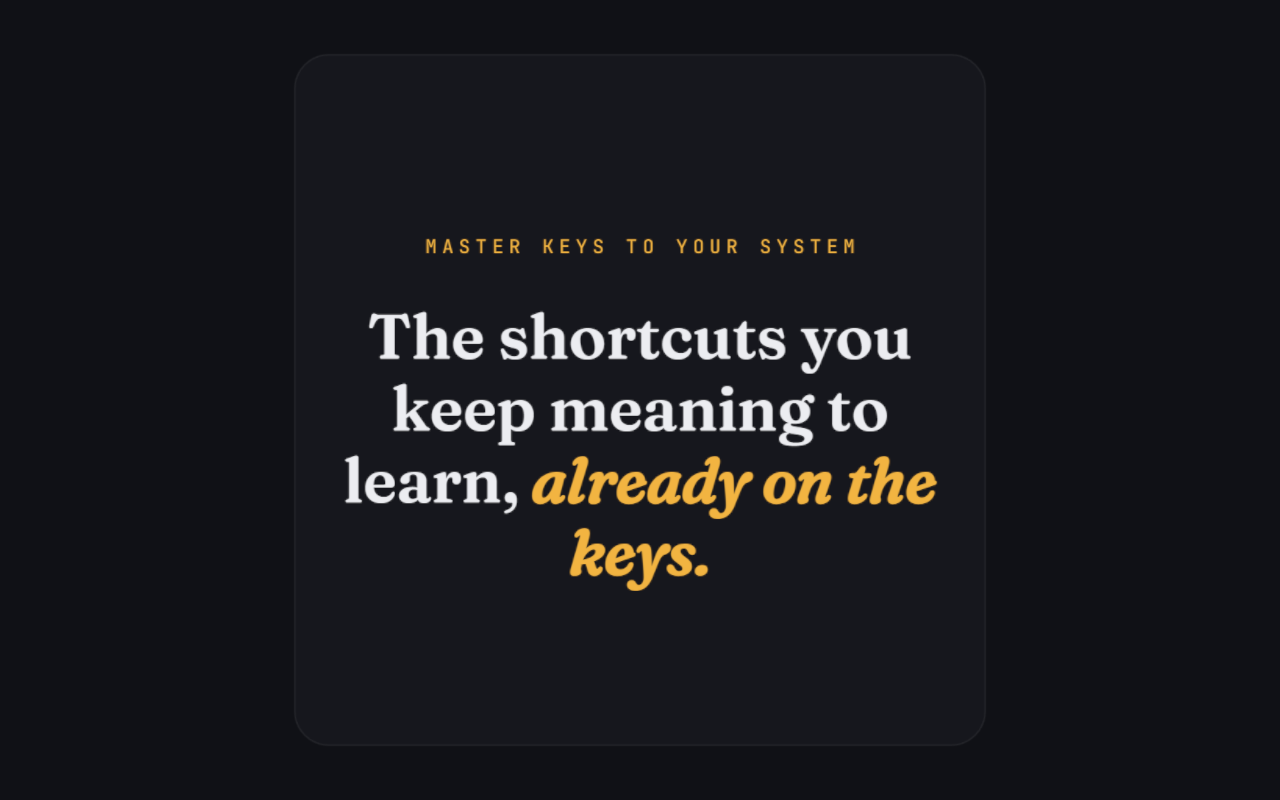
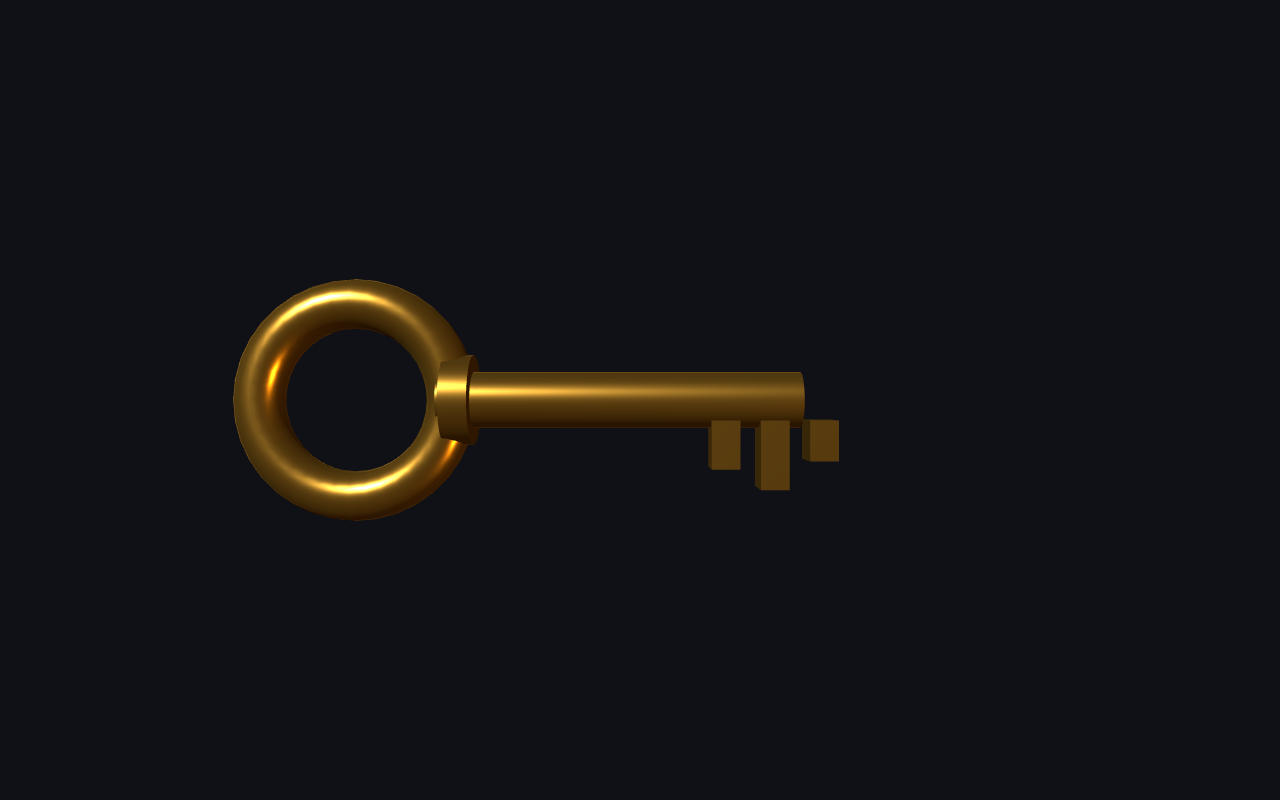
fix: text-free 3D page cards and golden-key hero capture

Changed region(s): [[0.1562, 0.3438, 0.75, 0.75], [0.4375, 0.2812, 0.6875, 0.3125], [0.3125, 0.2812, 0.4062, 0.3125]]

diff --git a/src/scripts/keyboard-scene.ts b/src/scripts/keyboard-scene.ts
@@ -4,85 +4,32 @@ import { AmbientLight, BoxGeometry, CanvasTexture, CircleGeometry, CylinderGeome
 export function start(): boolean {
   "use strict";
 
+  // Each page is a plain card skin; its text lives only in the HTML overlay (#overlays), shown at rest.
   var PAGES = [
-    { eyebrow:"MASTER KEYS TO YOUR SYSTEM", ec:"#F2B441", accent:"#F2B441",
-      runs:[ {t:"The shortcuts you keep meaning to learn, "},
-             {t:"already on the keys.", c:"#F2B441", i:true} ] },
-    { eyebrow:"WHY IT'S DIFFERENT", ec:"#F2B441", accent:"#F2B441",
-      runs:[ {t:"A reference that's "},
-             {t:"already in front of you.", c:"#F2B441", i:true} ] },
-    { eyebrow:"THE CAPSLOCK LAYER", ec:"#4FD1C5", accent:"#4FD1C5",
-      runs:[ {t:"Drive the mouse "},
-             {t:"without leaving the home row.", c:"#4FD1C5", i:true} ] },
-    { eyebrow:"A NOTE ON TRUST", ec:"#F2B441", accent:"#F2B441",
-      runs:[ {t:"Structurally "},
-             {t:"a keylogger with a GUI.", c:"#F2B441", mono:true},
-             {t:" So it earns trust in code."} ] }
+    { accent:"#F2B441" },
+    { accent:"#F2B441" },
+    { accent:"#4FD1C5" },
+    { accent:"#F2B441" }
   ];
   var N = PAGES.length;
   var reduce = false;
   try { reduce = matchMedia("(prefers-reduced-motion: reduce)").matches; } catch (e) {}
 
-  /* ---------- page texture skins (canvas) ---------- */
-  function fontFor(run, px) {
-    var wt = run.mono ? "700" : "600";
-    var it = run.i ? "italic " : "";
-    var fam = run.mono ? '"JetBrains Mono", monospace' : '"Fraunces", Georgia, serif';
-    return it + wt + " " + px + 'px ' + fam;
-  }
+  /* ---------- page texture skins (canvas): card surface and accent-tinted border, no text ---------- */
   function makeTexture(page) {
     var W = 1024, H = 1024;
     var c = document.createElement("canvas"); c.width = W; c.height = H;
     var x = c.getContext("2d");
     x.fillStyle = "#101116"; x.fillRect(0, 0, W, H);
     x.fillStyle = "#16171d"; roundRect(x, 70, 70, W-140, H-140, 44); x.fill();
-    x.strokeStyle = "rgba(255,255,255,0.06)"; x.lineWidth = 2; roundRect(x, 70, 70, W-140, H-140, 44); x.stroke();
-    /* eyebrow */
-    x.fillStyle = page.ec || page.accent; x.font = '500 24px "JetBrains Mono", monospace';
-    x.textAlign = "center"; x.textBaseline = "middle";
-    x.save(); x.translate(W/2, H*0.31); spacedText(x, page.eyebrow, 7); x.restore();
-    /* headline: full page text, wrapped, with the italic/mono accent runs preserved */
-    var fontPx = 80, lineH = 92, maxW = W - 240;
-    var words = [];
-    page.runs.forEach(function (r) {
-      r.t.split(/\s+/).forEach(function (w) { if (w) words.push({ w: w, r: r }); });
-    });
-    var lines = [[]], lineW = 0;
-    words.forEach(function (word) {
-      x.font = fontFor(word.r, fontPx);
-      var ww = x.measureText(word.w).width;
-      var sw = x.measureText(" ").width;
-      var cur = lines[lines.length - 1];
-      var add = (cur.length ? sw : 0) + ww;
-      if (lineW + add > maxW && cur.length) { lines.push([]); lineW = 0; add = ww; }
-      lines[lines.length - 1].push({ word: word, w: ww, sw: sw });
-      lineW += add;
-    });
-    var startY = H * 0.56, y0 = startY - (lines.length - 1) * lineH / 2;
-    x.textAlign = "left"; x.textBaseline = "middle";
-    lines.forEach(function (line, li) {
-      var lw = 0; line.forEach(function (it, idx) { lw += it.w + (idx ? it.sw : 0); });
-      var px = W/2 - lw/2, yy = y0 + li * lineH;
-      line.forEach(function (it, idx) {
-        if (idx) px += it.sw;
-        x.font = fontFor(it.word.r, fontPx);
-        x.fillStyle = it.word.r.c || "#ECEDF1";
-        x.fillText(it.word.w, px, yy);
-        px += it.w;
-      });
-    });
+    /* accent-tinted border carries the page colour now that the text lives in the overlay */
+    x.strokeStyle = page.accent; x.globalAlpha = 0.35; x.lineWidth = 3; roundRect(x, 70, 70, W-140, H-140, 44); x.stroke(); x.globalAlpha = 1;
     var tex = new CanvasTexture(c);
     tex.colorSpace = SRGBColorSpace;
     tex.anisotropy = 4;
     return tex;
   }
   function roundRect(x, a, b, w, h, r) { x.beginPath(); x.moveTo(a+r,b); x.arcTo(a+w,b,a+w,b+h,r); x.arcTo(a+w,b+h,a,b+h,r); x.arcTo(a,b+h,a,b,r); x.arcTo(a,b,a+w,b,r); x.closePath(); }
-  function spacedText(x, str, sp) {
-    var total = 0, ws = [];
-    for (var i=0;i<str.length;i++){ var w = x.measureText(str[i]).width + sp; ws.push(w); total += w; }
-    var cx = -total/2;
-    for (var j=0;j<str.length;j++){ x.fillText(str[j], cx + ws[j]/2, 0); cx += ws[j]; }
-  }
 
   /* ---------- three.js scene ---------- */
   var canvas = document.getElementById("gl");

diff --git a/scripts/capture-hero.ts b/scripts/capture-hero.ts
@@ -9,6 +9,10 @@ try {
   await page.goto(server.url + '/');
   await page.waitForSelector('body.immersive', { timeout: 20_000 });
   await page.waitForTimeout(1500);
+  // Wheel nine tics into the first key cutscene: the card has condensed away and the golden key is shown alone.
+  await page.mouse.move(640, 400);
+  for (let i = 0; i < 9; i++) { await page.mouse.wheel(0, 100); await page.waitForTimeout(60); }
+  await page.waitForTimeout(1500);
   await page.addStyleTag({ content: '#overlays,.hud,.site-nav,#flash{visibility:hidden!important}' });
   await page.locator('#gl').screenshot({ path: 'src/assets/keyboard-hero.png' });
   console.log('wrote src/assets/keyboard-hero.png');
